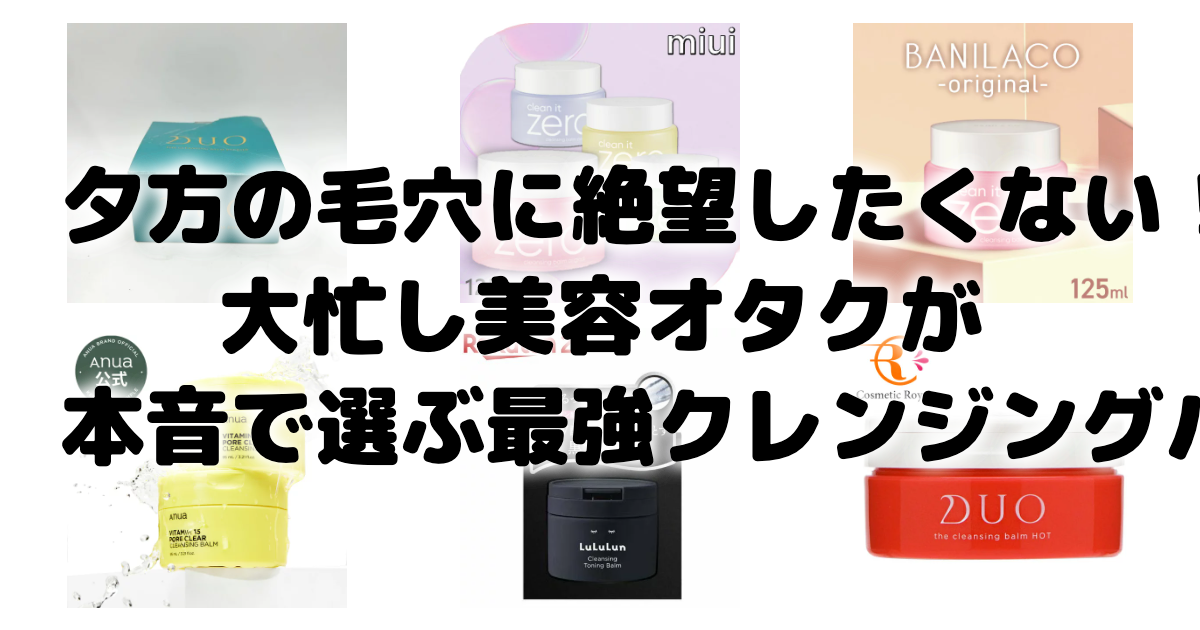
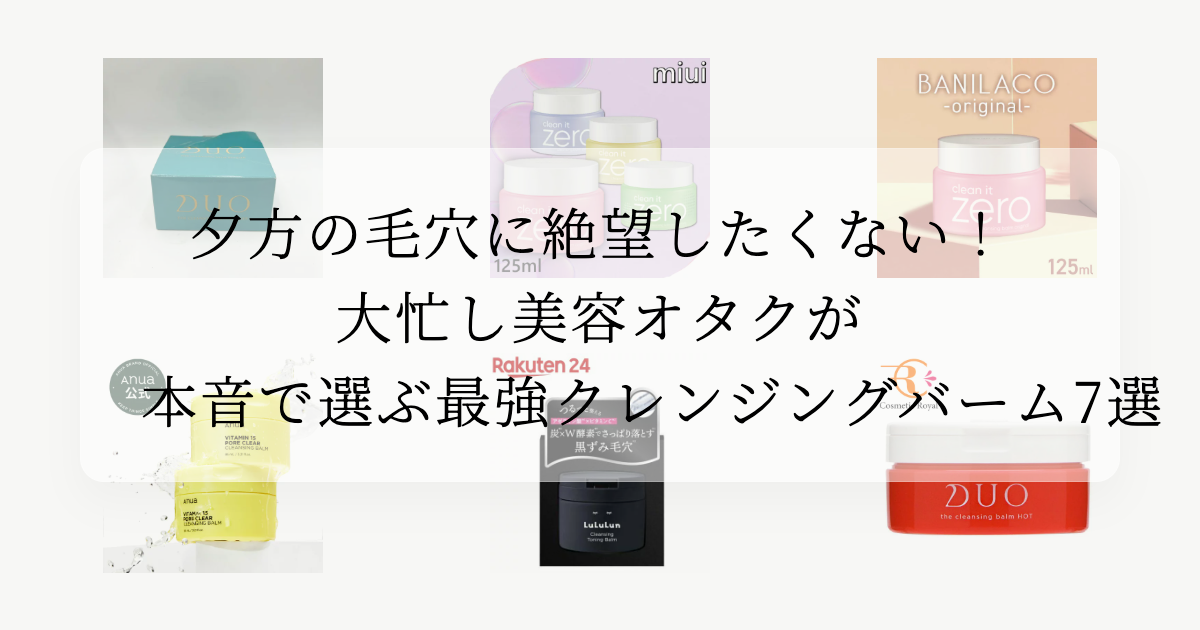
feat: add eyecatch for 20260609-cleansing-balm

diff --git a/public/eyecatch/20260609-cleansing-balm.html b/public/eyecatch/20260609-cleansing-balm.html
@@ -1,15 +1,22 @@
 <!DOCTYPE html>
-<html lang="ja"><head><meta charset="UTF-8" /><style>@import url('https://fonts.googleapis.com/css2?family=M+PLUS+Rounded+1c:wght@800;900&display=swap');
+<html lang="ja">
+<head>
+<meta charset="UTF-8" />
+<style>
+@import url('https://fonts.googleapis.com/css2?family=Noto+Serif+JP:wght@300;400;500&display=swap');
 * { margin: 0; padding: 0; box-sizing: border-box; }
-html, body { width: 1200px; height: 630px; overflow: hidden; background: #fff; }
-body { font-family: 'M PLUS Rounded 1c', sans-serif; display: flex; align-items: center; justify-content: center; position: relative; }
-.g { display: grid; grid-template-columns: repeat(3, 1fr); grid-template-rows: repeat(2, 1fr); width: 1200px; height: 630px; padding: 20px; gap: 20px; }
+html, body { width: 1200px; height: 630px; overflow: hidden; background: #F7F7F5; }
+body { font-family: 'Noto Serif JP', serif; display: flex; align-items: center; justify-content: center; position: relative; }
+.g { display: grid; grid-template-columns: repeat(3, 1fr); grid-template-rows: repeat(2, 1fr); width: 1200px; height: 630px; padding: 40px; gap: 40px; }
 .pw { width: 100%; height: 100%; display: flex; align-items: center; justify-content: center; }
-.pi { max-width: 360px; max-height: 280px; object-fit: contain; mix-blend-mode: multiply; }
+.pi { width: 220px; height: 220px; object-fit: contain; mix-blend-mode: multiply; }
 .to { position: absolute; inset: 0; display: flex; align-items: center; justify-content: center; z-index: 100; pointer-events: none; }
-.ti { font-size: 85px; font-weight: 900; color: #000; line-height: 1.3; text-align: center; width: 100%; padding: 0 60px; text-shadow: 0 0 20px #fff, 0 0 20px #fff, 0 0 20px #fff; word-break: keep-all; }
-</style></head><body>
-<div class="g"><div class="pw"><img src="https://thumbnail.image.rakuten.co.jp/@0_mall/boundless/cabinet/10359033/13398730/imgrc0147272565.jpg?_ex=640x640" class="pi" alt="" loading="eager" /></div>
+.ti { font-size: 56px; font-weight: 300; color: #000; line-height: 1.5; text-align: center; max-width: 1040px; padding: 40px 60px; background: rgba(255, 255, 255, 0.5); border-radius: 24px; border: 1px solid rgba(255, 255, 255, 0.2); box-shadow: 0 20px 40px rgba(0, 0, 0, 0.03); word-break: keep-all; letter-spacing: 0.05em; }
+</style>
+</head>
+<body>
+<div class="g">
+<div class="pw"><img src="https://thumbnail.image.rakuten.co.jp/@0_mall/boundless/cabinet/10359033/13398730/imgrc0147272565.jpg?_ex=640x640" class="pi" alt="" loading="eager" /></div>
 <div class="pw"><img src="https://thumbnail.image.rakuten.co.jp/@0_mall/l-plus/cabinet/tasya111/7259863-1.jpg?_ex=640x640" class="pi" alt="" loading="eager" /></div>
 <div class="pw"><img src="https://thumbnail.image.rakuten.co.jp/@0_mall/enetwakuwaku/cabinet/tasya107/7259862.jpg?_ex=640x640" class="pi" alt="" loading="eager" /></div>
 <div class="pw"><img src="https://thumbnail.image.rakuten.co.jp/@0_mall/anuajapan/cabinet/10701124/main_thumbnail.jpg?_ex=640x640" class="pi" alt="" loading="eager" /></div>
@@ -17,4 +24,5 @@ body { font-family: 'M PLUS Rounded 1c', sans-serif; display: flex; align-items:
 <div class="pw"><img src="https://thumbnail.image.rakuten.co.jp/@0_mall/cosmeticroyal/cabinet/duo/4589659144120logo.jpg?_ex=640x640" class="pi" alt="" loading="eager" /></div>
 </div>
 <div class="to"><h1 class="ti">夕方の毛穴に絶望したくない！大忙し美容オタクが<br />本音で選ぶ最強クレンジングバーム7選</h1></div>
-</body></html>
+</body>
+</html>
